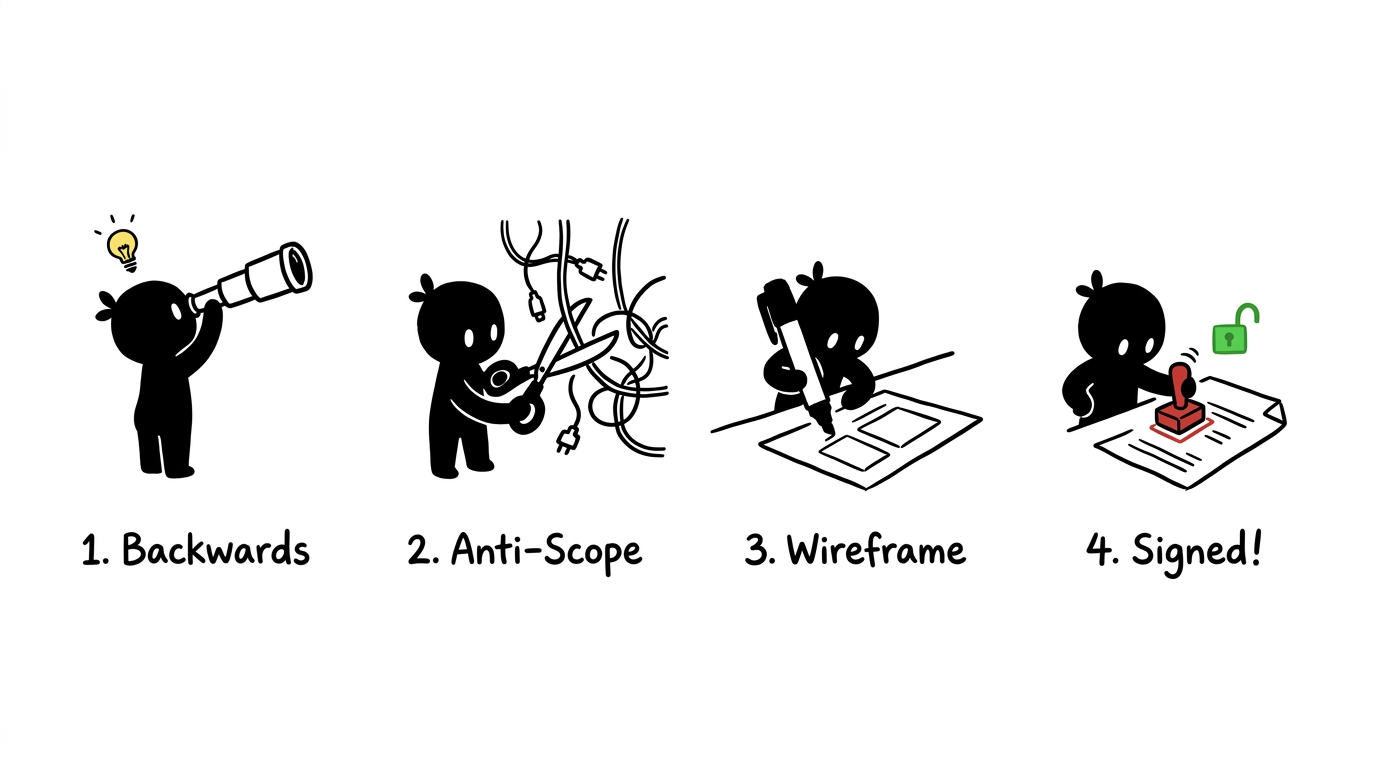
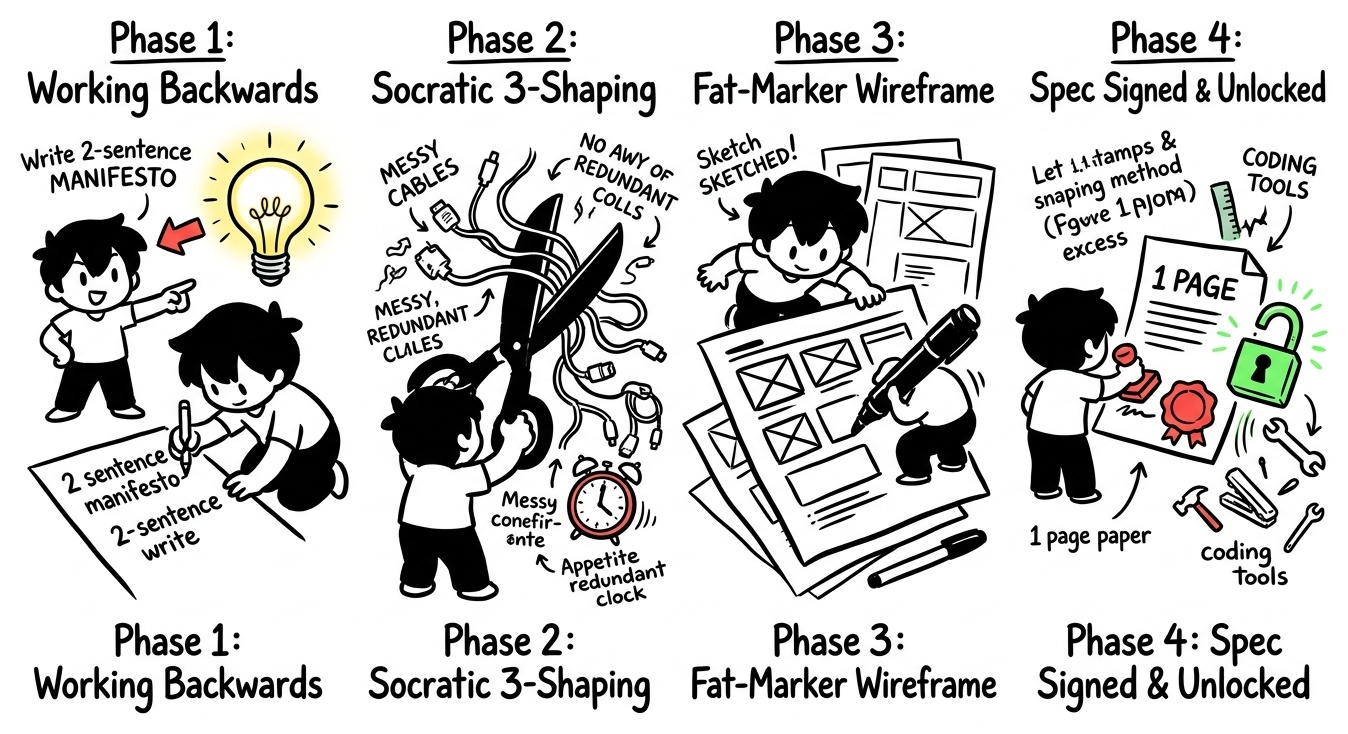
docs: replace ASCII text blocks with tightly-cropped Xiaohei hand-drawn comic illustrations

Changed region(s): [[0.0, 0.03, 0.997, 0.9891], [0.2804, 0.03, 0.997, 0.1499], [0.0312, 0.8392, 0.2493, 0.9891]]

diff --git a/README.md b/README.md
@@ -37,13 +37,9 @@ Yet, every developer has lived through this nightmare:
 3. 20 minutes later, you are staring at 30 compiler errors, broken dependencies, and context explosion.
 4. **You wanted a bicycle; the AI attempted to build a spaceship and crashed in your living room.**
 
-```text
-❌ WITHOUT SBC (The Code-First Disaster):
-Vague Idea ────► AI generates 1,500 lines of unvetted code ────► 30 Errors ────► Context Blown ────► Rage Rollback
-
-✅ WITH SBC (Shaping Before Building):
-Vague Idea ────► [🛑 Physical Code Lock] ────► Socratic 3-Grill ────► ASCII Wireframe ────► 1-Page Spec ────► Clean 1-Shot Win
-```
+<p align="center">
+  <img src="assets/comparison.jpg" alt="Without SBC vs With SBC Comic" width="100%" style="border-radius: 8px;" />
+</p>
 
 **Stop Before Code (SBC)** is an agent skill that enforces a **strict physical kill-switch** on all coding tools until your idea has been shaped, prioritized, and locked down into an executable single-page specification.
 
@@ -72,30 +68,10 @@ Whenever you mention an idea or request, SBC intercepts the agent through a rigo
   <img src="assets/workflow-infographic.jpg" alt="Stop Before Code 4-Step State Machine" width="100%" style="border-radius: 12px; box-shadow: 0 8px 24px rgba(0,0,0,0.15);" />
 </p>
 
-```text
-[Your Raw Idea]
-      │
-      ▼
-┌────────────────────────────────────────────────────────┐
-│ Phase 1: Working Backwards (逆向产品宣言)               │
-│ - Who is this for? What pain does it kill? What form?  │
-├────────────────────────────────────────────────────────┤
-│ Phase 2: Socratic 3-Shaping (灵魂三问 · 必须是选择题)     │
-│ 1. Appetite & Minimal Form (胃口与交付形态)             │
-│ 2. Anti-Scope List (果断砍掉 3 个伪需求)                 │
-│ 3. Cold Start & Adaptive Edge (自适应冷启动与容错体验)    │
-├────────────────────────────────────────────────────────┤
-│ Phase 3: Fat-Marker Prototype (终端 ASCII 粗笔草图)     │
-│ - Instant visual confirmation right in your terminal   │
-├────────────────────────────────────────────────────────┤
-│ Phase 4: Pitch & Contract Signing (一页纸契约 .spec.md) │
-│ - Definition of Done (DoD) & verification commands     │
-└────────────────────────────────────────────────────────┘
-      │
-      │ 🛑 [WAITING FOR USER: "CONFIRM" or "确认"]
-      ▼
-[Phase 5: Code Lock Released · Flawless 1-Shot Execution]
-```
+1. **Phase 1: Working Backwards** — Write a 2-sentence release manifesto defining target context, human value, and minimal delivery form.
+2. **Phase 2: Socratic 3-Shaping** — Ask strictly 3 multiple-choice questions (Appetite & Form, Anti-Scope 3 cuts, Adaptive cold-start/edge experience).
+3. **Phase 3: Fat-Marker Prototype** — Render an instant low-fi terminal layout to visually lock down UI affordances.
+4. **Phase 4: Pitch & Contract Signing** — Generate `.product-spec.md` with explicit Definition of Done (DoD). Wait for your `CONFIRM` or `确认` to unlock physical coding tools!
 
 ---
 
